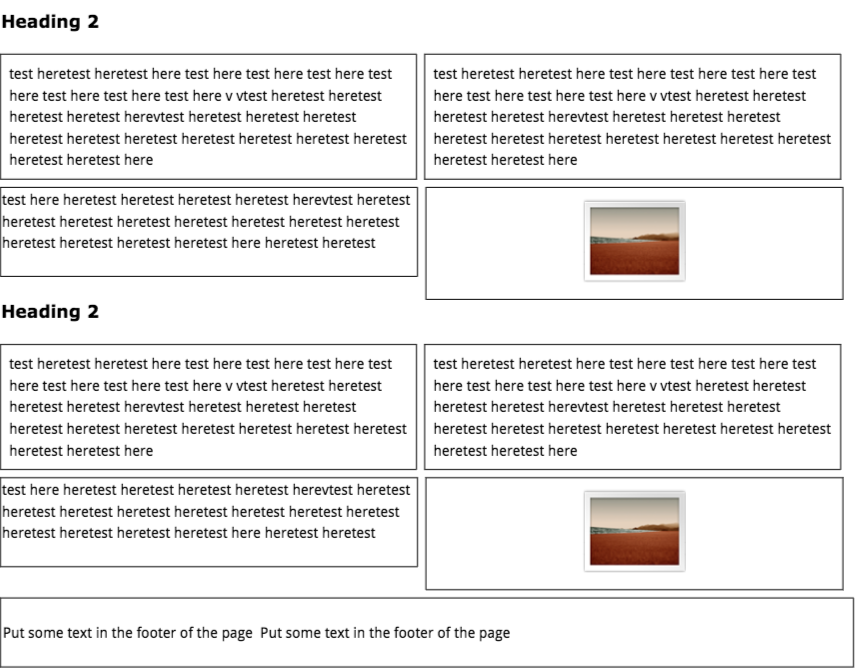
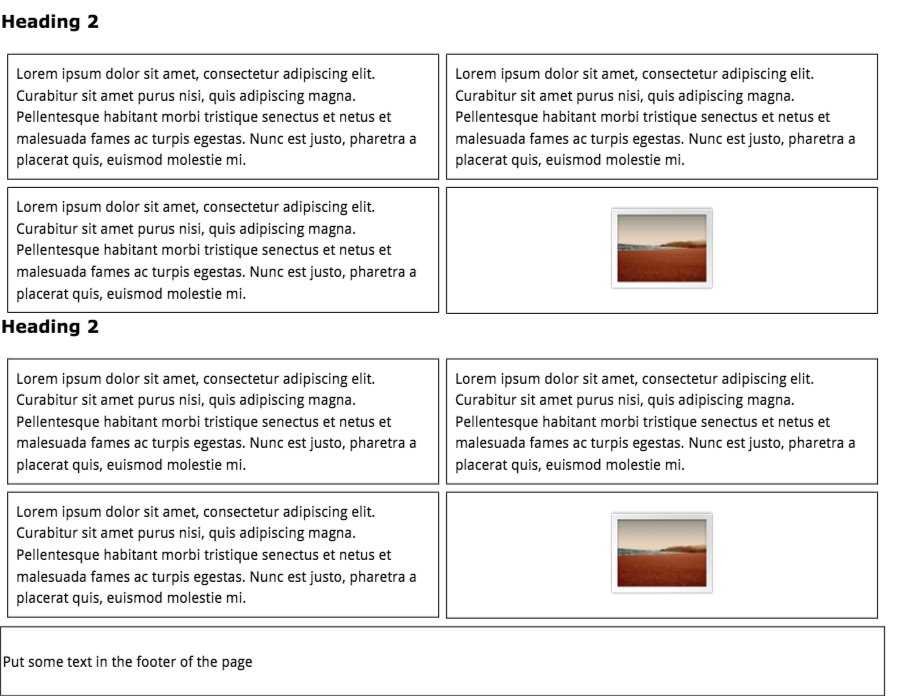
adjust packaged page templates

Changed region(s): [[0.0, 0.509, 0.9965, 1.0], [0.0, 0.0, 0.9965, 0.479], [0.654, 0.7485, 0.8097, 0.8383]]

diff --git a/templates/page_templates/HeadingsandBoxes/HeadingsandBoxes.html b/templates/page_templates/HeadingsandBoxes/HeadingsandBoxes.html
@@ -1,52 +1,53 @@
   
 <h2>Heading 2</h2>
     <br>
-    <div id="outer" style="width:100%; border-style:solid; border-color:black; border-width: 0px;height:auto;padding:0em;float:left;clear:both;">
-        <div class="content" style="float:left;width:46%;border-style:solid; border-color:black; border-width: 2px;padding:.5em;margin-right:.5em;">
-            test heretest heretest here test here test here test here test here test here test here test here v vtest heretest heretest heretest heretest herevtest heretest heretest heretest heretest heretest heretest heretest heretest heretest heretest heretest heretest here
-        </div>
-        <div class="content" style="float:left;width:46%;border-style:solid; border-color:black; border-width: 2px;padding:.5em;">
-            test heretest heretest here test here test here test here test here test here test here test here v vtest heretest heretest heretest heretest herevtest heretest heretest heretest heretest heretest heretest heretest heretest heretest heretest heretest heretest here
-        </div>
+    <div id="outer" style="width:100%; border-style:solid; border-color:black; border-width: 0px;height:auto;padding:0em;float:left;clear:both;margin-left:.5em;">
+        <div class="content" style="float:left;width:46%;border-style:solid; border-color:black; border-width: 2px;padding:.5em;margin-right:.5em;">Lorem ipsum dolor sit amet, consectetur adipiscing elit. Curabitur sit 
+amet purus nisi, quis adipiscing magna. Pellentesque habitant morbi 
+tristique senectus et netus et malesuada fames ac turpis egestas. Nunc 
+est justo, pharetra a placerat quis, euismod molestie mi.</div>
+        <div class="content" style="float:left;width:46%;border-style:solid; border-color:black; border-width: 2px;padding:.5em;">Lorem ipsum dolor sit amet, consectetur adipiscing elit. Curabitur sit 
+amet purus nisi, quis adipiscing magna. Pellentesque habitant morbi 
+tristique senectus et netus et malesuada fames ac turpis egestas. Nunc 
+est justo, pharetra a placerat quis, euismod molestie mi.</div>
     </div>
-    <div id="outer" style="width:100%; border-style:solid; border-color:black; border-width: 0px; height:auto;padding:0em;float:left;clear:both;margin-top:.5em;">
-        <div class="content" style=" float:left;width:47.8%;border-style:solid; border-color:black; border-width: 2px;margin-right:.5em;">
-            test here
-        heretest heretest heretest heretest herevtest heretest heretest heretest
- heretest heretest heretest heretest heretest heretest heretest heretest
- heretest here
-        heretest heretest <br><br>
+    <div id="outer2" style="width:100%; border-style:solid; border-color:black; border-width: 0px; height:auto;padding:0em;float:left;clear:both;margin-top:.5em;margin-left:.5em;">
+        <div class="content" style=" float:left;width:46%;border-style:solid; border-color:black; border-width: 2px;margin-right:.5em;padding:.5em;">
+            Lorem ipsum dolor sit amet, consectetur adipiscing elit. Curabitur sit 
+amet purus nisi, quis adipiscing magna. Pellentesque habitant morbi 
+tristique senectus et netus et malesuada fames ac turpis egestas. Nunc 
+est justo, pharetra a placerat quis, euismod molestie mi. <br>
        </div>
-        <div class="content" style=" float:left;width:47.8%;border-style:solid; border-color:black; border-width: 2px;">
+        <div class="content" style=" float:left;width:46%;border-style:solid; border-color:black; border-width: 2px;padding:.5em;">
             <div style="text-align:center;">
-              <img src="dnd_image">
+              <img src="dnd_image"><br>
             </div>
         </div>
     </div>
 <h2>Heading 2</h2>
     <br>
-    <div id="outer" style="width:100%; border-style:solid; border-color:black; border-width: 0px;height:auto;padding:0em;float:left;clear:both;">
-        <div class="content" style="float:left;width:46%;border-style:solid; border-color:black; border-width: 2px;padding:.5em;margin-right:.5em;">
-            test heretest heretest here test here test here test here test here test here test here test here v vtest heretest heretest heretest heretest herevtest heretest heretest heretest heretest heretest heretest heretest heretest heretest heretest heretest heretest here
-        </div>
-        <div class="content" style="float:left;width:46%;border-style:solid; border-color:black; border-width: 2px;padding:.5em;">
-            test heretest heretest here test here test here test here test here test here test here test here v vtest heretest heretest heretest heretest herevtest heretest heretest heretest heretest heretest heretest heretest heretest heretest heretest heretest heretest here
-        </div>
+    <div id="outer1" style="width:100%; border-style:solid; border-color:black; border-width: 0px;height:auto;padding:0em;float:left;clear:both;margin-left:.5em;">
+        <div class="content" style="float:left;width:46%;border-style:solid; border-color:black; border-width: 2px;padding:.5em;margin-right:.5em;">Lorem ipsum dolor sit amet, consectetur adipiscing elit. Curabitur sit 
+amet purus nisi, quis adipiscing magna. Pellentesque habitant morbi 
+tristique senectus et netus et malesuada fames ac turpis egestas. Nunc 
+est justo, pharetra a placerat quis, euismod molestie mi.</div>
+        <div class="content" style="float:left;width:46%;border-style:solid; border-color:black; border-width: 2px;padding:.5em;">Lorem ipsum dolor sit amet, consectetur adipiscing elit. Curabitur sit 
+amet purus nisi, quis adipiscing magna. Pellentesque habitant morbi 
+tristique senectus et netus et malesuada fames ac turpis egestas. Nunc 
+est justo, pharetra a placerat quis, euismod molestie mi.</div>
     </div>
-    <div id="outer" style="width:100%; border-style:solid; border-color:black; border-width: 0px; height:auto;padding:0em;float:left;clear:both;margin-top:.5em;">
-        <div class="content" style="float:left;width:47.8%;border-style:solid; border-color:black; border-width: 2px;margin-right:.5em;">
-            test here
-        heretest heretest heretest heretest herevtest heretest heretest heretest
- heretest heretest heretest heretest heretest heretest heretest heretest
- heretest here
-        heretest heretest <br><br>
+    <div id="outer4" style="width:100%; border-style:solid; border-color:black; border-width: 0px; height:auto;padding:0em;float:left;clear:both;margin-top:.5em;margin-left:.5em;">
+        <div class="content" style="float:left;width:46%;border-style:solid; border-color:black; border-width: 2px;margin-right:.5em;padding:.5em;">Lorem ipsum dolor sit amet, consectetur adipiscing elit. Curabitur sit 
+amet purus nisi, quis adipiscing magna. Pellentesque habitant morbi 
+tristique senectus et netus et malesuada fames ac turpis egestas. Nunc 
+est justo, pharetra a placerat quis, euismod molestie mi.<br>
        </div>
-        <div class="content" style="color:blue; float:left;width:47.8%;border-style:solid; border-color:black; border-width: 2px;">
+        <div class="content" style="color:blue; float:left;width:46%;border-style:solid; border-color:black; border-width: 2px;padding:.5em;">
             <div style="text-align:center;">
               <img src="dnd_image">
             </div>
         </div>
     </div>
-    <div id="outer" style="width:98%; border-style:solid; border-color:black; border-width: 2px;height:auto;padding:0em;float:left;clear:both;margin-top:.5em;"><p><br>Put some text in the footer of the page&nbsp; Put some text in the footer of the page&nbsp; <br><br></p>
+    <div id="outer" style="width:98%; border-style:solid; border-color:black; border-width: 2px;height:auto;padding:0em;float:left;clear:both;margin-top:.5em;"><p><br>Put some text in the footer of the page <br><br></p>
 </div>
 <br style="clear:both">

diff --git a/templates/page_templates/title_text_2_columns/title_text_2_columns.html b/templates/page_templates/title_text_2_columns/title_text_2_columns.html
@@ -1,4 +1,11 @@
 <div>
+<style>
+@media screen and (max-width:760px) {
+ div{
+  width:100%;
+ }
+}
+</style>
 <h3>Title</h3>
 <div style="width:99%; border:thin solid #ccc; clear:both;" id="outer1">
   <div style="width:47%; height:30em; float:left;padding:.5em;resize:both;overflow:auto;">
@@ -6,7 +13,7 @@
 	<p>Lorem ipsum dolor sit amet, consectetur adipiscing elit. Curabitur sit amet purus nisi, quis adipiscing magna. Pellentesque habitant morbi tristique senectus et netus et malesuada fames ac turpis egestas. Nunc est justo, pharetra a placerat quis, euismod molestie mi. </p>
 	<p>Lorem ipsum dolor sit amet, consectetur adipiscing elit. Curabitur sit amet purus nisi, quis adipiscing magna. Pellentesque habitant morbi tristique senectus et netus et malesuada fames ac turpis egestas. Nunc est justo, pharetra a placerat quis, euismod molestie mi. </p>
   </div>
-  <div style="width:47%;float:left;padding:.5em;border: thin solid #666;margin:.3em;resize:both;overflow:auto;">
+  <div style="width:47%;float:left;padding:.5em;border: thin solid #666;margin:.3em;resize:both;overflow:auto;" id="outer2">
 	Lorem ipsum dolor sit amet, consectetur adipiscing elit. Curabitur sit amet purus nisi, quis adipiscing magna. Pellentesque habitant morbi tristique senectus et netus et malesuada fames ac turpis egestas. Nunc est justo, pharetra a placerat quis, euismod molestie mi.<br>Lorem ipsum dolor sit amet, consectetur adipiscing elit. Curabitur sit 
 amet purus nisi, quis adipiscing magna. Pellentesque habitant morbi 
 tristique senectus et netus et malesuada fames ac turpis egestas. Nunc 
